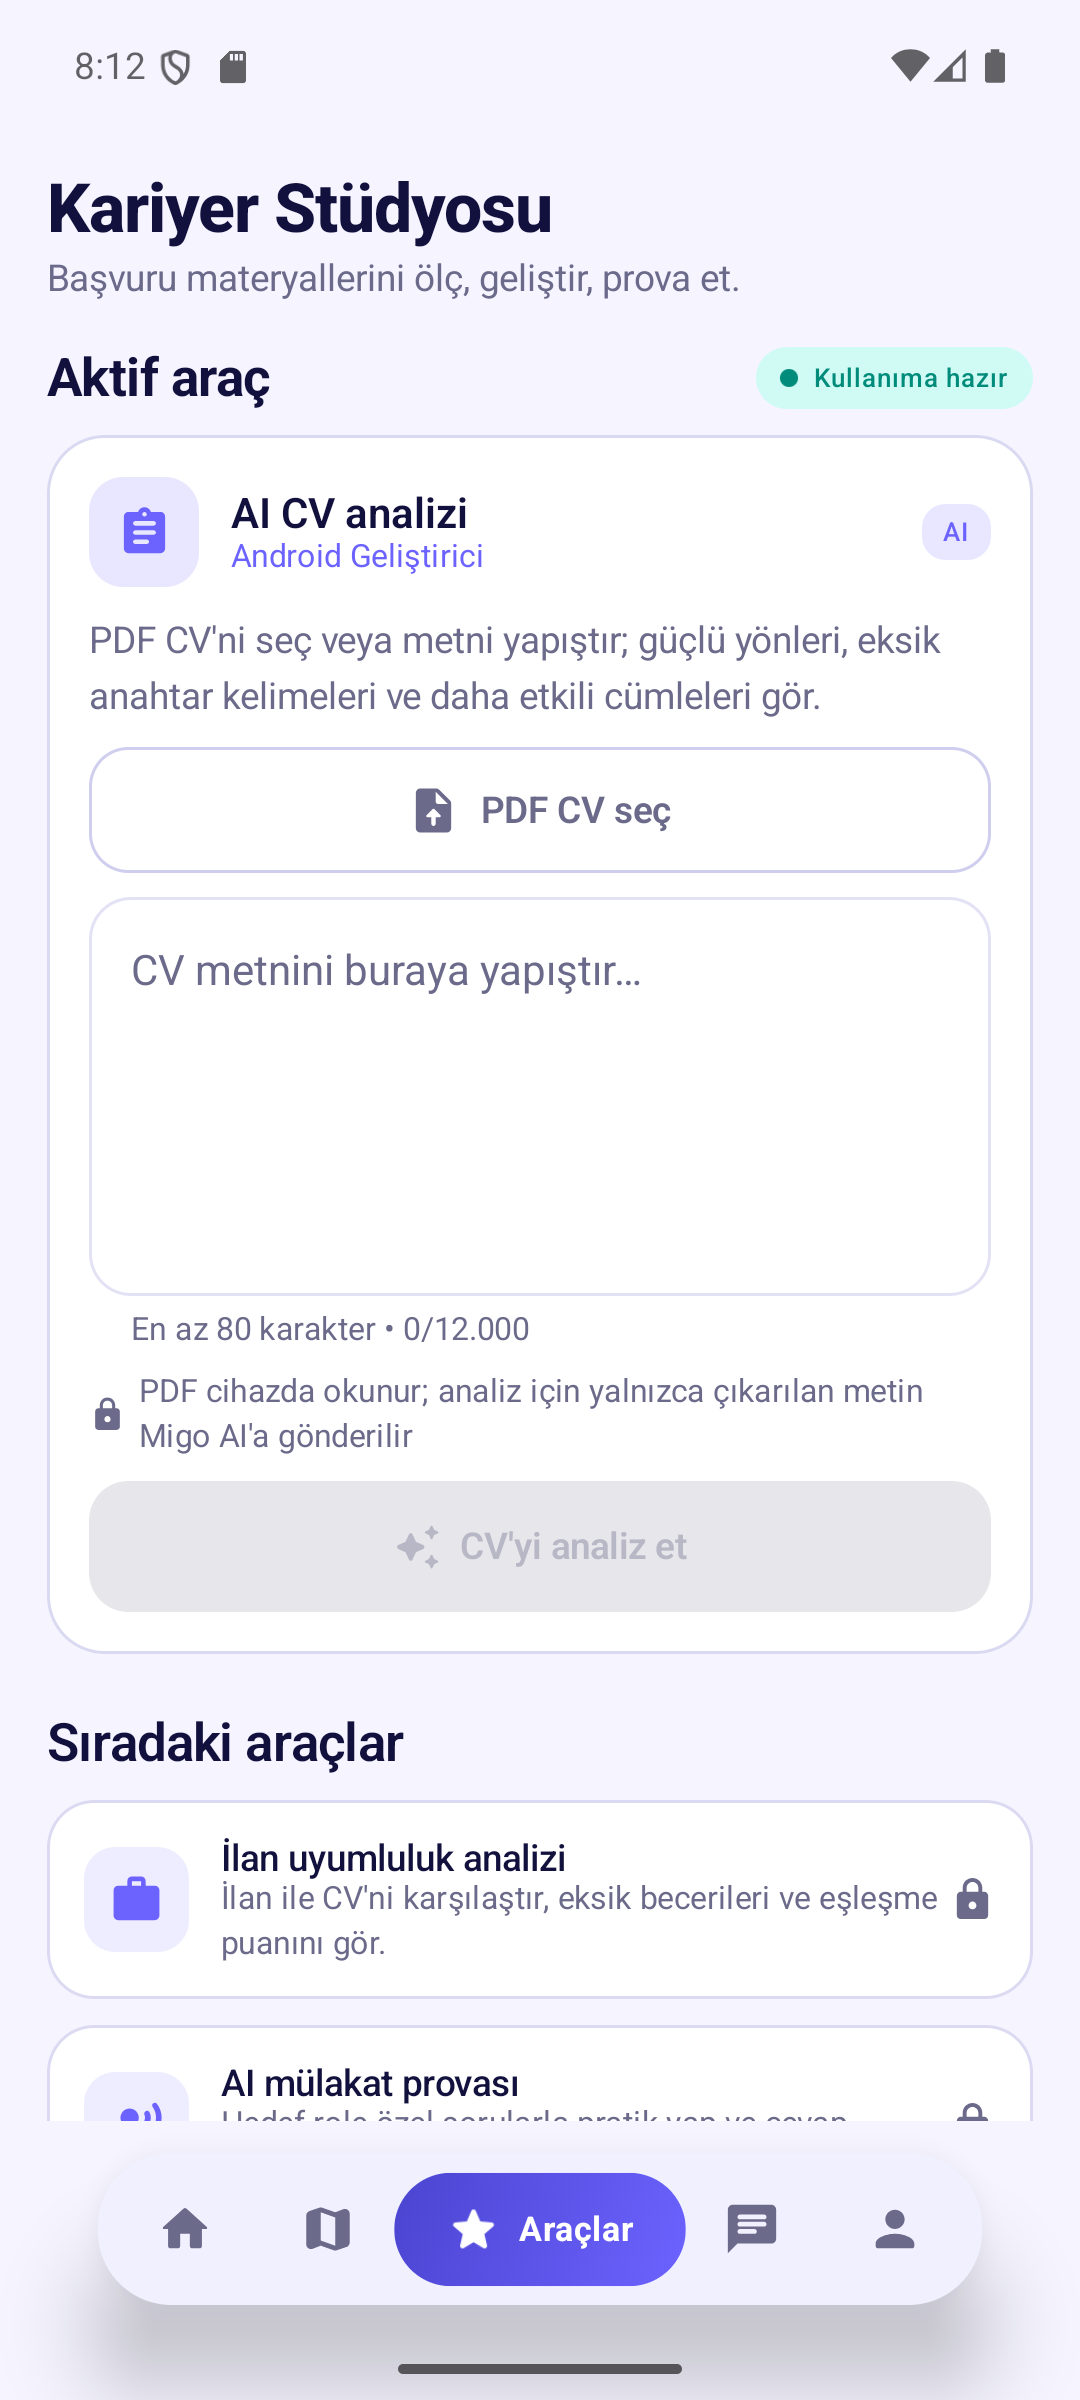
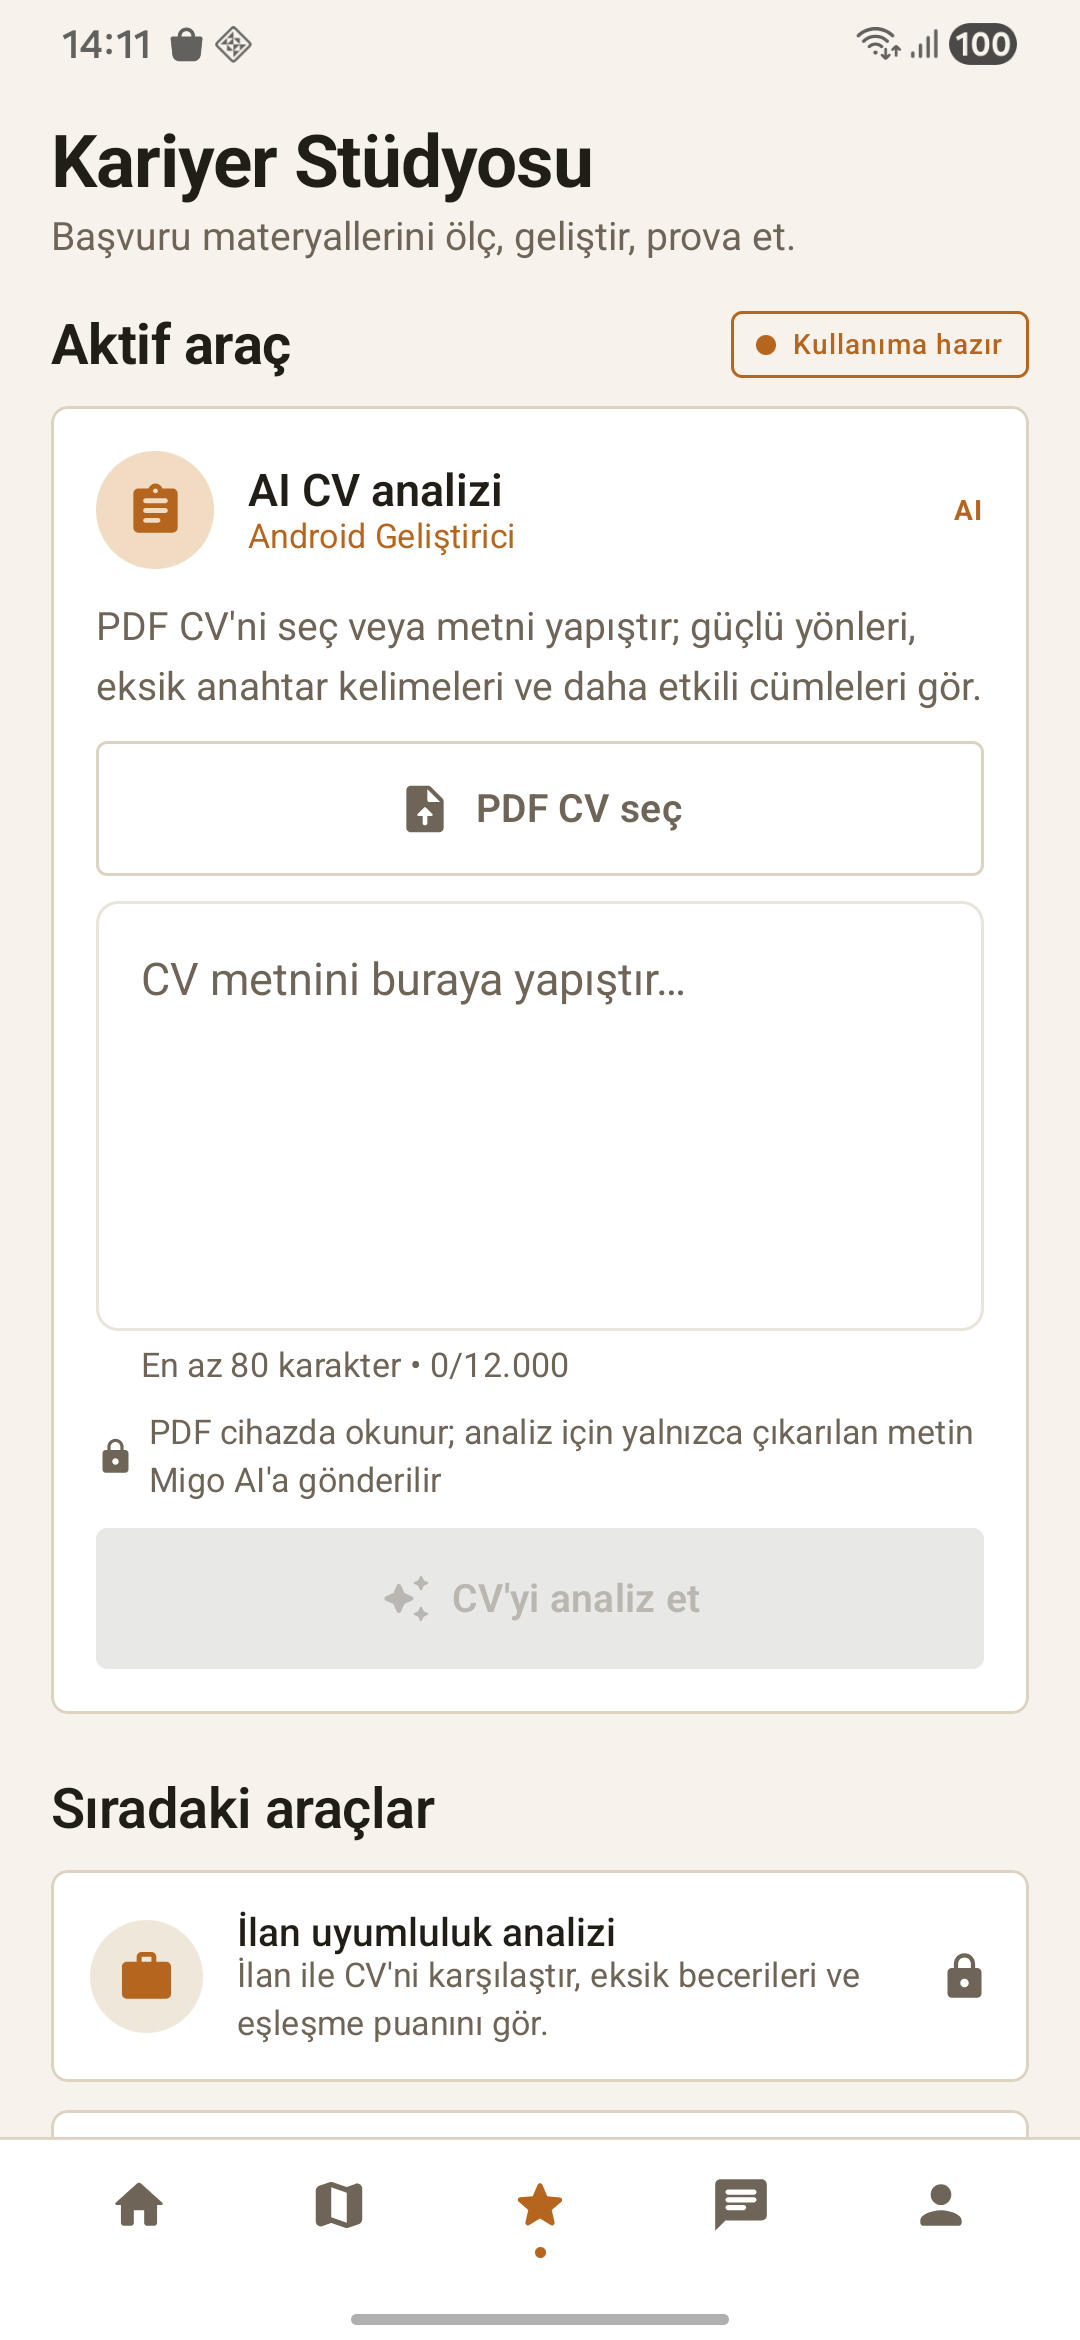
Regenerate Play Store assets to match the Rota redesign
The 6 phone screenshots and the feature graphic were still on the old
violet/cyan UI. Screenshots recaptured from the real app on-device via
StoreAssetSeedReceiver's synthetic profile; feature graphic re-rendered
with the new palette (no more gradient/sparkle background). All assets
alpha-stripped to match Play Store's opaque-PNG requirement.

diff --git a/store/store-assets/README.md b/store/store-assets/README.md
@@ -11,7 +11,8 @@ profiliyle üretildi:
 6. `phone/06-profile.png`: kariyer profili ve gizlilik alanı.
 7. `feature-graphic-1024x500.png`: Google Play özellik grafiği.
 
-Telefon görüntüleri 1080×2400 PNG, özellik grafiği tam 1024×500 PNG boyutundadır.
+Telefon görüntüleri 1080×2340 PNG (gerçek cihaz çözünürlüğü, alfa kanalsız), özellik grafiği
+tam 1024×500 PNG boyutundadır.
 Gerçek ad, CV, sohbet, e-posta veya API anahtarı içermezler.
 
 Görselleri tekrar üretmek için debug APK'yı yükledikten sonra sentetik profili şu komutla
